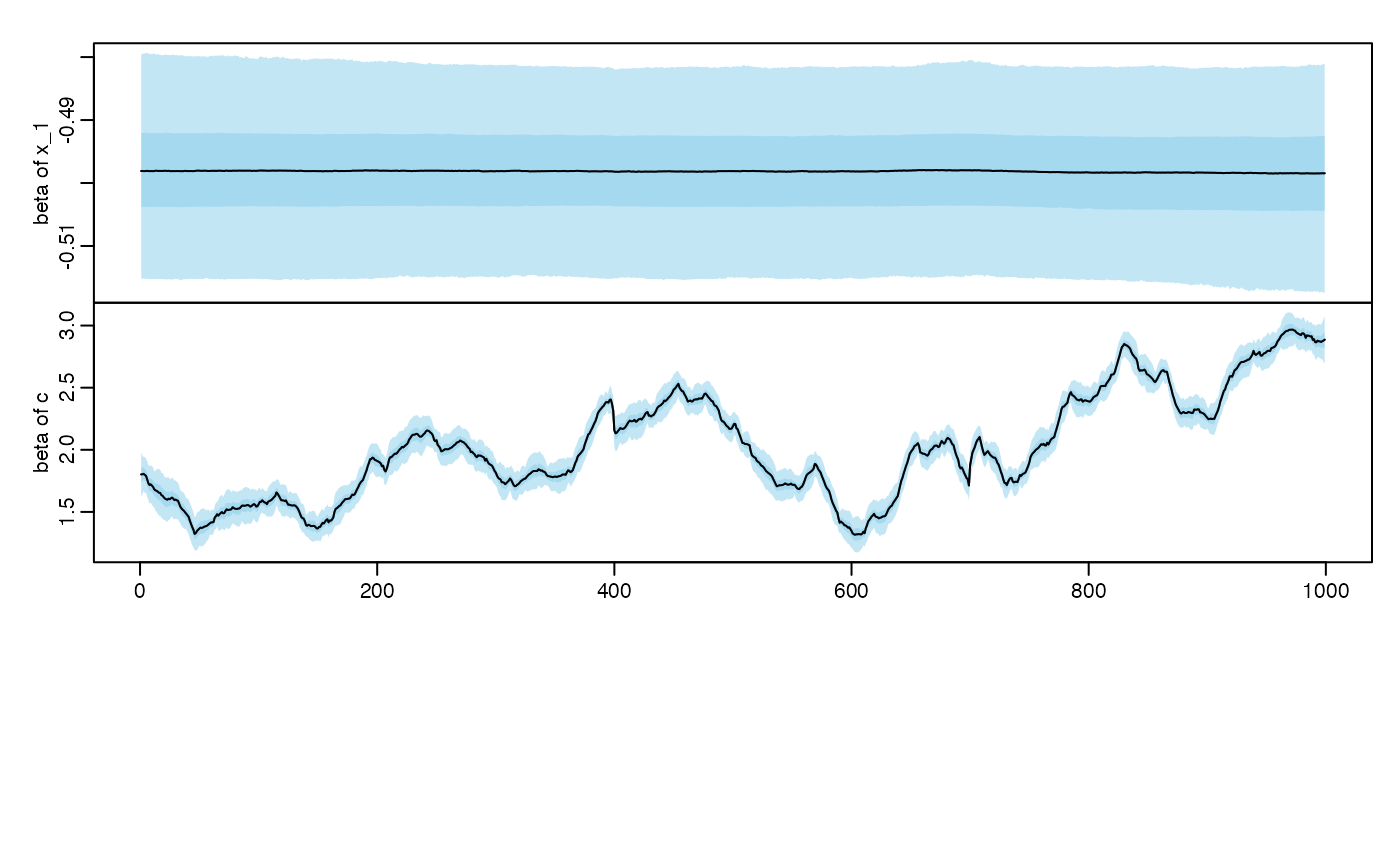
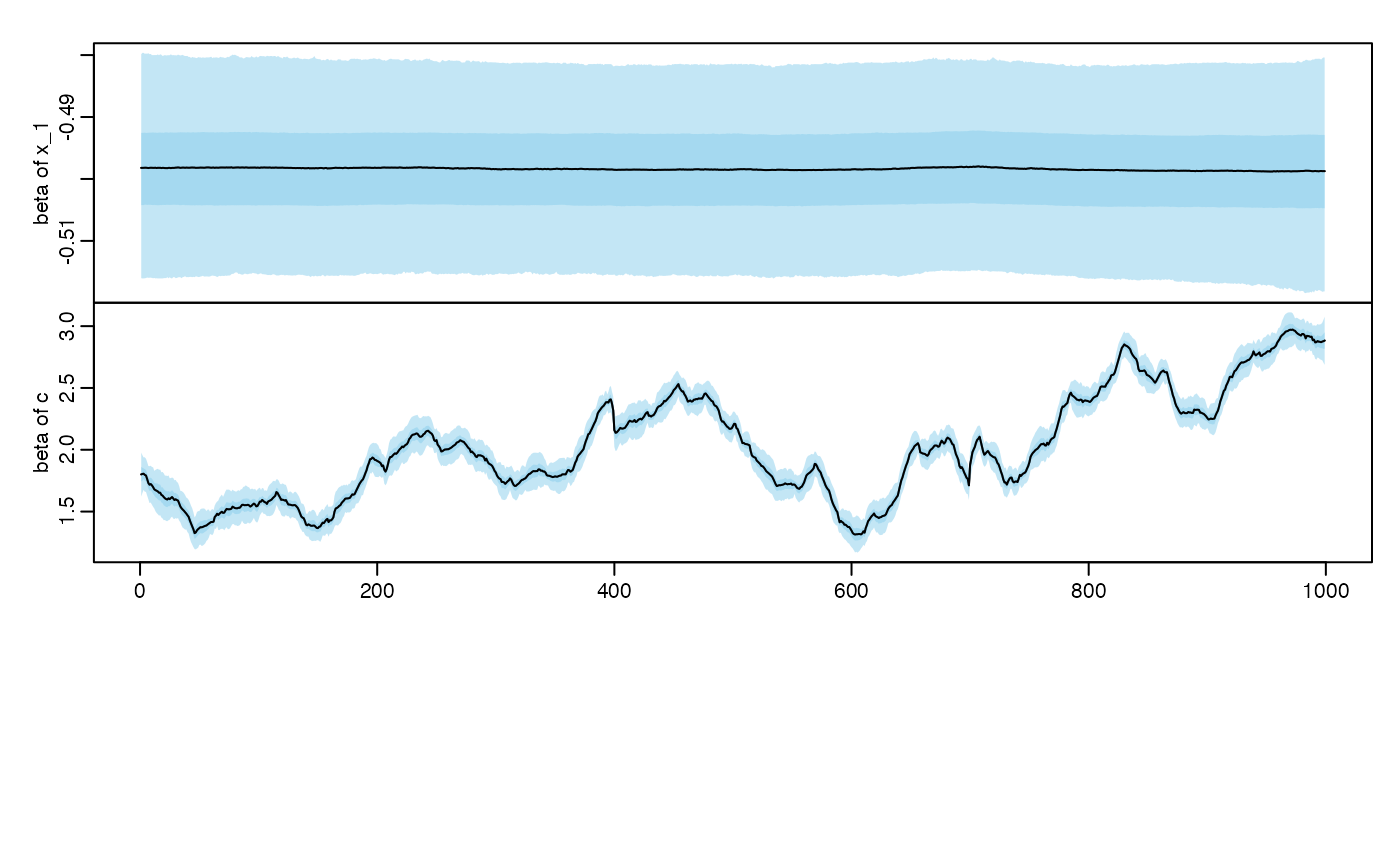
1

diff --git a/docs/articles/Quick-start.html b/docs/articles/Quick-start.html
@@ -105,7 +105,7 @@ columns for corresponding lagged outcomes.</p>
 <span>                                    <span class="op">)</span><span class="op">$</span><span class="va">missing_index</span></span>
 <span><span class="co">#&gt; The missing indicators for MNAR 'increasing' are generated!</span></span></code></pre></div>
 <p><img src="Quick-start_files/figure-html/unnamed-chunk-3-1.png" width="1536"></p>
-<pre><code><span><span class="co">#&gt; The missing rate for MNAR is 0.437</span></span>
+<pre><code><span><span class="co">#&gt; The missing rate for MNAR is 0.449</span></span>
 <span></span>
 <span><span class="va">data</span><span class="op">$</span><span class="va">y</span><span class="op">[</span><span class="va">index_MNAR</span><span class="op">]</span> <span class="op">=</span> <span class="cn">NA</span></span>
 <span><span class="va">data</span><span class="op">$</span><span class="va">y_1</span> <span class="op">=</span> <span class="fu"><a href="https://rdrr.io/r/base/c.html" class="external-link">c</a></span><span class="op">(</span><span class="cn">NA</span>,<span class="va">data</span><span class="op">$</span><span class="va">y</span><span class="op">[</span><span class="fl">1</span><span class="op">:</span><span class="fl">999</span><span class="op">]</span><span class="op">)</span></span>
@@ -149,7 +149,7 @@ columns for corresponding lagged outcomes.</p>
 <tr class="even">
 <td align="left">3</td>
 <td align="left">2020-02-08</td>
-<td align="right">23.69191</td>
+<td align="right">NA</td>
 <td align="right">10.24018</td>
 <td align="right">7.791593</td>
 <td align="right">20.56619</td>
@@ -159,10 +159,10 @@ columns for corresponding lagged outcomes.</p>
 <tr class="odd">
 <td align="left">4</td>
 <td align="left">2020-02-09</td>
-<td align="right">23.46471</td>
+<td align="right">NA</td>
 <td align="right">11.26975</td>
 <td align="right">5.322497</td>
-<td align="right">23.69191</td>
+<td align="right">NA</td>
 <td align="right">10.240184</td>
 <td align="right">7.791593</td>
 </tr>
@@ -172,7 +172,7 @@ columns for corresponding lagged outcomes.</p>
 <td align="right">20.95864</td>
 <td align="right">10.66030</td>
 <td align="right">7.306048</td>
-<td align="right">23.46471</td>
+<td align="right">NA</td>
 <td align="right">11.269747</td>
 <td align="right">5.322497</td>
 </tr>
@@ -189,7 +189,7 @@ columns for corresponding lagged outcomes.</p>
 <tr class="even">
 <td align="left">7</td>
 <td align="left">2020-02-12</td>
-<td align="right">NA</td>
+<td align="right">22.40664</td>
 <td align="right">11.38117</td>
 <td align="right">6.250145</td>
 <td align="right">23.51839</td>
@@ -242,28 +242,28 @@ introduction), we set up the formula and all the learning parameter in
 <tbody>
 <tr class="odd">
 <td align="left">(Intercept)</td>
-<td align="right">40.2508406</td>
-<td align="right">1.5551497</td>
+<td align="right">40.3051925</td>
+<td align="right">1.2884393</td>
 </tr>
 <tr class="even">
 <td align="left">y_1</td>
-<td align="right">0.4794656</td>
-<td align="right">0.0227584</td>
+<td align="right">0.4702804</td>
+<td align="right">0.0233650</td>
 </tr>
 <tr class="odd">
 <td align="left">x</td>
-<td align="right">-1.5236878</td>
-<td align="right">0.0596471</td>
+<td align="right">-1.5012686</td>
+<td align="right">0.0636861</td>
 </tr>
 <tr class="even">
 <td align="left">x_1</td>
-<td align="right">-0.4898531</td>
-<td align="right">0.0668759</td>
+<td align="right">-0.5103026</td>
+<td align="right">0.0839902</td>
 </tr>
 <tr class="odd">
 <td align="left">c</td>
-<td align="right">-0.9441154</td>
-<td align="right">0.0714497</td>
+<td align="right">-0.9163038</td>
+<td align="right">0.0522802</td>
 </tr>
 </tbody>
 </table>
